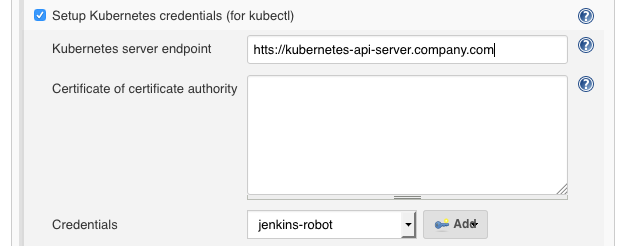
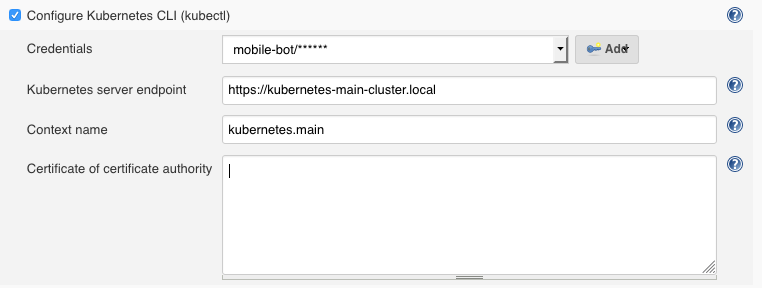
Add contextname to documentation

diff --git a/src/main/resources/org/jenkinsci/plugins/kubernetes/cli/KubectlBuildWrapper/help-credentialId.html b/src/main/resources/org/jenkinsci/plugins/kubernetes/cli/KubectlBuildWrapper/help-credentialId.html
@@ -1,0 +1,3 @@
+<div>
+    Credentials to use for authentication or raw kubeconfig file.
+</div>

diff --git a/src/main/resources/org/jenkinsci/plugins/kubernetes/cli/KubectlBuildWrapper/help-contextName.html b/src/main/resources/org/jenkinsci/plugins/kubernetes/cli/KubectlBuildWrapper/help-contextName.html
@@ -1,0 +1,3 @@
+<div>
+    Context name to use or to switch to.
+</div>

diff --git a/src/main/java/org/jenkinsci/plugins/kubernetes/cli/KubectlBuildWrapper.java b/src/main/java/org/jenkinsci/plugins/kubernetes/cli/KubectlBuildWrapper.java
@@ -95,7 +95,7 @@ public class KubectlBuildWrapper extends SimpleBuildWrapper {
 
         @Override
         public String getDisplayName() {
-            return "Setup Kubernetes CLI (kubectl)";
+            return "Configure Kubernetes CLI (kubectl)";
         }
 
         public ListBoxModel doFillCredentialsIdItems(@AncestorInPath Item item, @QueryParameter String serverUrl) {

diff --git a/src/main/java/org/jenkinsci/plugins/kubernetes/cli/KubectlBuildStep.java b/src/main/java/org/jenkinsci/plugins/kubernetes/cli/KubectlBuildStep.java
@@ -139,7 +139,7 @@ public class KubectlBuildStep extends Step {
          */
         @Override
         public String getDisplayName() {
-            return "Setup Kubernetes CLI (kubectl)";
+            return "Configure Kubernetes CLI (kubectl)";
         }
 
         /**

diff --git a/README.md b/README.md
@@ -37,6 +37,7 @@ node {
     withKubeConfig([credentialsId: '<credential-id>',
                     caCertificate: '<ca-certificate>',
                     serverUrl: '<api-server-address>'
+                    contextName: '<context-name>'
                     ]) {
       sh 'kubectl get pods'
     }
@@ -48,11 +49,14 @@ The arguments to the `withKubeConfig` step are:
 * `credentialsId` - the Jenkins identifier of the credentials to use.
 * `caCertificate` - an optional base64-encoded certificate to check the Kubernetes api server's against. If you don't specify one, the CA verification will be skipped.
 * `serverUrl` - the url of the api server
+* `contextName` - name of the context to create or to switch to if a raw kubeconfig was provided
 
 
 ### From the web interface
-In Jenkins > *job name* > Configure > **Build Environment**
-
+Within the Jenkins dashboard, select a Job and then select Configure
+Scroll down and click the "Add build step" dropdown
+Select "Configure Kubernetes CLI (kubectl)"
+In the "Credential" dropdown, select the credentials to authenticate on the cluster or the kubeconfig stored in Jenkins.
 ![webui](img/webui.png)
 
 

diff --git a/CHANGELOG.md b/CHANGELOG.md
@@ -1,6 +1,12 @@
 CHANGELOG
 =========
 
+1.2.0
+-----
+* Upgrade kubernetes-credentials to 0.3.1 [#1](https://github.com/jenkinsci/kubernetes-cli-plugin/pull/1)
+* Add support for FileCredentials [#2](https://github.com/jenkinsci/kubernetes-cli-plugin/pull/2)
+
+
 1.1.0
 -----
 * Upgrade kubernetes-credentials to 0.3.1 [#1](https://github.com/jenkinsci/kubernetes-cli-plugin/pull/1)
